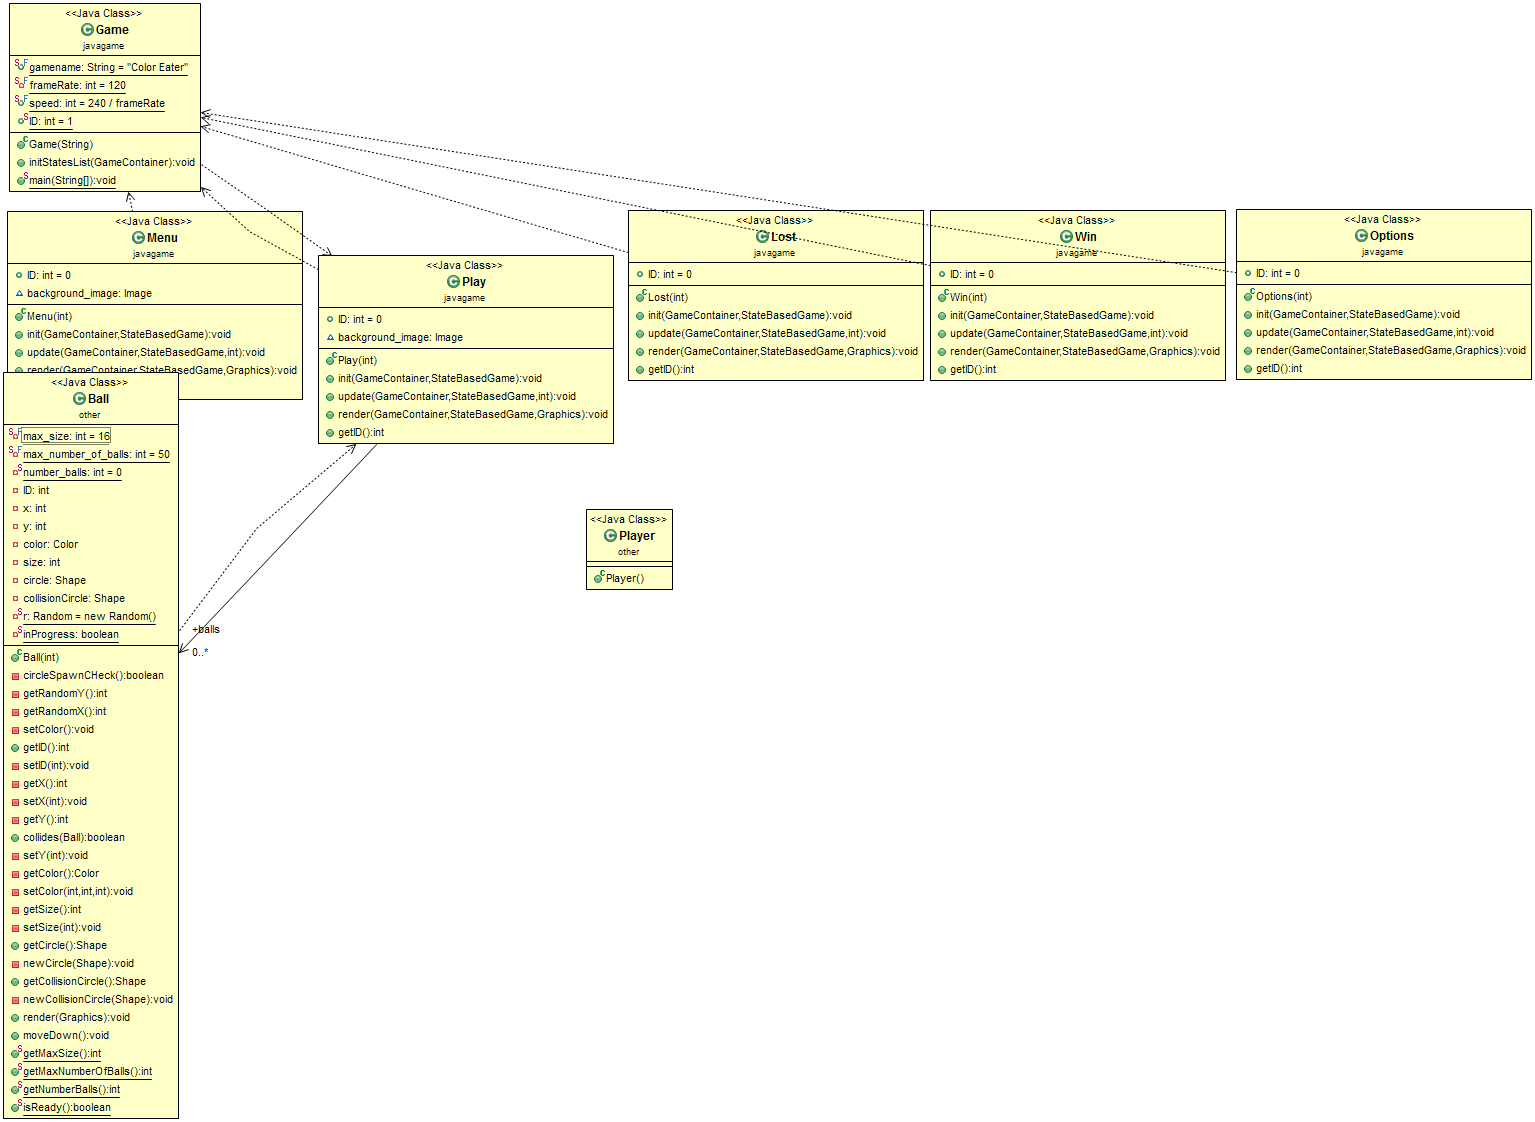
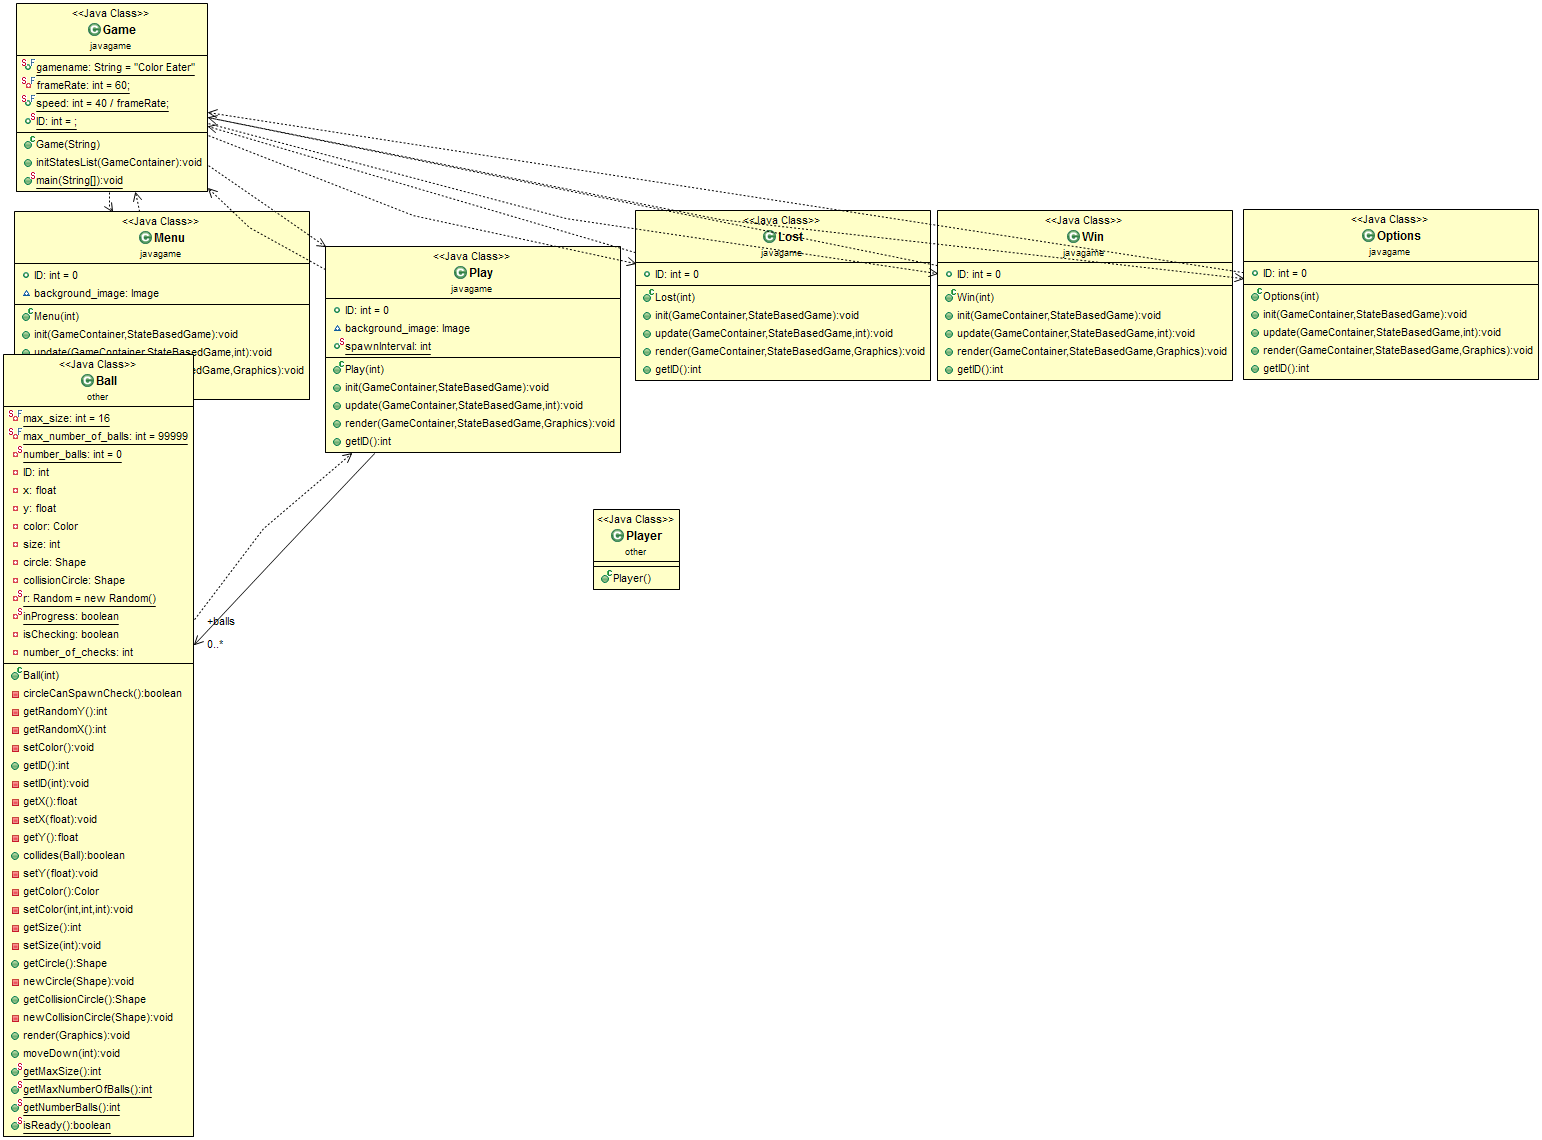
finally got balls

Changed region(s): [[0.0, 0.0, 1.0, 0.9982], [0.3674, 0.4367, 0.4593, 0.5303], [0.1837, 0.4367, 0.2143, 0.4679]]

diff --git a/src/other/Ball.java b/src/other/Ball.java
@@ -10,8 +10,8 @@ import org.newdawn.slick.geom.Shape;
 public class Ball {
 	
 	private static final int	max_size			= 16;
-	private static final int	max_number_of_balls	= 99999;
-	private static int			number_balls		= 0;
+	private static final int	max_number_of_balls	= 100;
+	private static int			numberOfBalls		= 0;
 	private int					ID;
 	private float				x;
 	private float				y;
@@ -86,7 +86,7 @@ public class Ball {
 	}
 	*/
 	public Ball(int ID) {
-		number_balls++;
+		numberOfBalls++;
 		inProgress = true;
 		isChecking = true;
 		// ID
@@ -99,9 +99,11 @@ public class Ball {
 				// IF NO COLLISION DETECTED SPAWN CIRCLE
 				inProgress = false;
 				isChecking = false;
-				javagame.Play.spawnInterval = 1000;
-				System.out.println("Spawning " + this.getID() + " ball.      " + "Number of checks: " + number_of_checks);
-				this.newCircle(new Circle(this.getX() + this.getSize() / 2, this.getY() - 00 + this.getSize() / 2, this.getSize() / 2));
+				javagame.Play.spawnInterval = 10;
+				if (number_of_checks > 0) {
+					System.out.println("Spawning " + this.getID() + " ball.      " + "Number of checks: " + number_of_checks + ".    Number of balls: " + numberOfBalls);
+				}
+				this.newCircle(new Circle(this.getX() + this.getSize() / 2, this.getY() - 70 + this.getSize() / 2, this.getSize() / 2));
 			}
 			if (number_of_checks > 50000) {
 				System.out.println("max number of checks exceeded");
@@ -117,7 +119,7 @@ public class Ball {
 		// COLOR
 		this.setColor();
 		// SIZE IN PX
-		this.setSize(this.getSize() + (5 * (3 + this.getSize())));
+		this.setSize(this.getSize() + (3 * (3 + this.getSize())));
 		// POSITION
 		this.setX(this.getRandomX());
 		//this.setY(getRandomY());
@@ -286,6 +288,8 @@ public class Ball {
 		//g.fill(this.collisionCircle);
 		g.setColor(this.getColor());
 		g.fill(this.circle);
+		g.setColor(Color.black);
+		g.draw(this.circle);
 	}
 	
 	public void moveDown(int delta) {
@@ -297,8 +301,8 @@ public class Ball {
 		}
 		*/
 		if (!isChecking) {
-			this.getCircle().setCenterY((this.getCircle().getCenterY() + 0.1f * delta));
-			this.getCollisionCircle().setCenterY((this.getCollisionCircle().getCenterY() + 0.1f * delta));
+			this.getCircle().setCenterY((this.getCircle().getCenterY() + 0.05f * delta));
+			this.getCollisionCircle().setCenterY((this.getCollisionCircle().getCenterY() + 0.05f * delta));
 		}
 	}
 	
@@ -310,11 +314,15 @@ public class Ball {
 		return max_number_of_balls;
 	}
 	
-	public static int getNumberBalls() {
-		return number_balls;
+	public static int getNumberOfBalls() {
+		return numberOfBalls;
 	}
 	
 	public static boolean isReady() {
 		return !inProgress;
+	}
+	
+	public static void setNumberBalls(int i) {
+		Ball.numberOfBalls = i;
 	}
 }

diff --git a/src/javagame/Play.java b/src/javagame/Play.java
@@ -19,7 +19,7 @@ public class Play extends BasicGameState {
 	Image							background_image;
 	//public CopyOnWriteArrayList<Ball>	balls;
 	public static ArrayList<Ball>	balls;
-	public static int spawnInterval;
+	public static int				spawnInterval;
 	
 	public Play(int state) {
 		ID = state;
@@ -56,18 +56,20 @@ public class Play extends BasicGameState {
 		}
 		spawnInterval--;
 		// ############################################################ //
-		if (Ball.getNumberBalls() < Ball.getMaxNumberOfBalls() & Ball.isReady()&spawnInterval<0) {
-			balls.add(new Ball(balls.size()));
-		}
-		//if (input.isKeyDown(Input.KEY_DOWN)) 
-		{
+		if (!input.isKeyDown(Input.KEY_SPACE)) {
+			if (Ball.isReady() & spawnInterval < 0) {
+				if (Ball.getNumberOfBalls() > Ball.getMaxNumberOfBalls()) {
+					balls.remove(0);
+					Ball.setNumberBalls(Ball.getNumberOfBalls() - 1);
+				}
+				balls.add(new Ball(balls.size()));
+			}
 			for (Ball ball : balls) {
-			if (ball.getCircle() != null) {
-				ball.moveDown(delta);
+				if (ball.getCircle() != null) {
+					ball.moveDown(delta);
+				}
 			}
 		}
-		}
-		
 		// ############################################################ //
 		/*
 		if (spawn_interval % 1== 0) {
@@ -87,7 +89,7 @@ public class Play extends BasicGameState {
 	// |____| |___||________||_____|\____||______.'|________||____| |___| 
 	//                                                                    
 	public void render(GameContainer gc, StateBasedGame sbg, Graphics g) throws SlickException {
-		background_image.setImageColor(.75f, .75f, .75f);
+		//background_image.setImageColor(.75f, .75f, .75f);
 		background_image.draw(0, 0);
 		g.setColor(Color.black);
 		g.drawString("ID: " + this.getID(), 20, 20);

diff --git a/src/javagame/Game.java b/src/javagame/Game.java
@@ -6,7 +6,7 @@ import org.newdawn.slick.state.*;
 public class Game extends StateBasedGame {
 	
 	public static final String	gamename		= "Color Eater";	
-	private static final int	frameRate		= 120;				// 120, 60
+	private static final int	frameRate		= 60;				// 120, 60
 	public static final int		speed			= 240 / frameRate;	// 2  , 4
 	public static int			ID				= 1;
 	
@@ -29,7 +29,7 @@ public class Game extends StateBasedGame {
 			appgc = new AppGameContainer(new Game(gamename));
 			appgc.setDisplayMode(1024, 576, false); // fullscreen = true
 			appgc.setTargetFrameRate(frameRate);
-			appgc.setShowFPS(false);
+			//appgc.setShowFPS(false);
 			appgc.setAlwaysRender(true);
 			// appgc.setMouseGrabbed(true); // hide mouse cursor
 			appgc.start();
